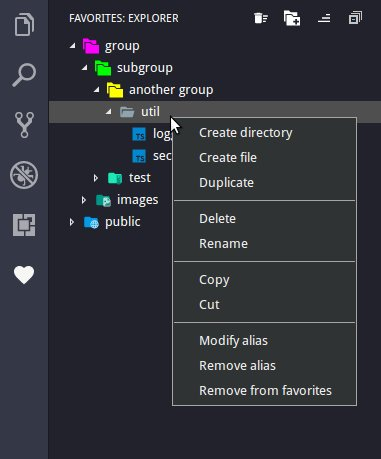
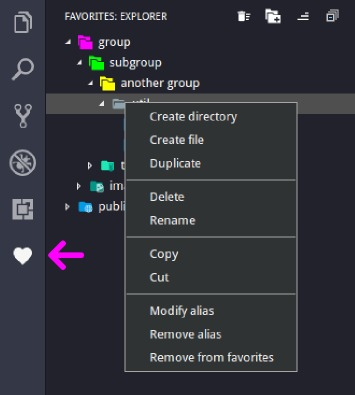
readme

diff --git a/README.md b/README.md
@@ -12,19 +12,21 @@ Time saver for complex projects.
 
 ## NEW
 
+ 
 <p align="center">
-   <img  src="https://raw.githubusercontent.com/kdcro101/vscode-favorite-items/master/preview/colors.jpg" />
+   <img  src="https://raw.githubusercontent.com/kdcro101/vscode-favorite-items/master/preview/operations.jpg" />
 </p>
 
-Change group icon color.
-Right-click on group in favorites view and select `Group color`
+- change group icon color.
+Right-click on group in favorites view and select `Group color`.
 
-
-
-
-## NEW 2018/05/08
-
-- favorite items can have alias (custom display label)
+- copy / cut / paste operations are available
+- basic filesystem operations:
+    - create file
+    - delete file/directory
+    - rename file/directory
+    - duplicate file/directory
+- favorite items can have alias (different label)
 - groups can be renamed
 - favorites can be accesed via activity bar
 
